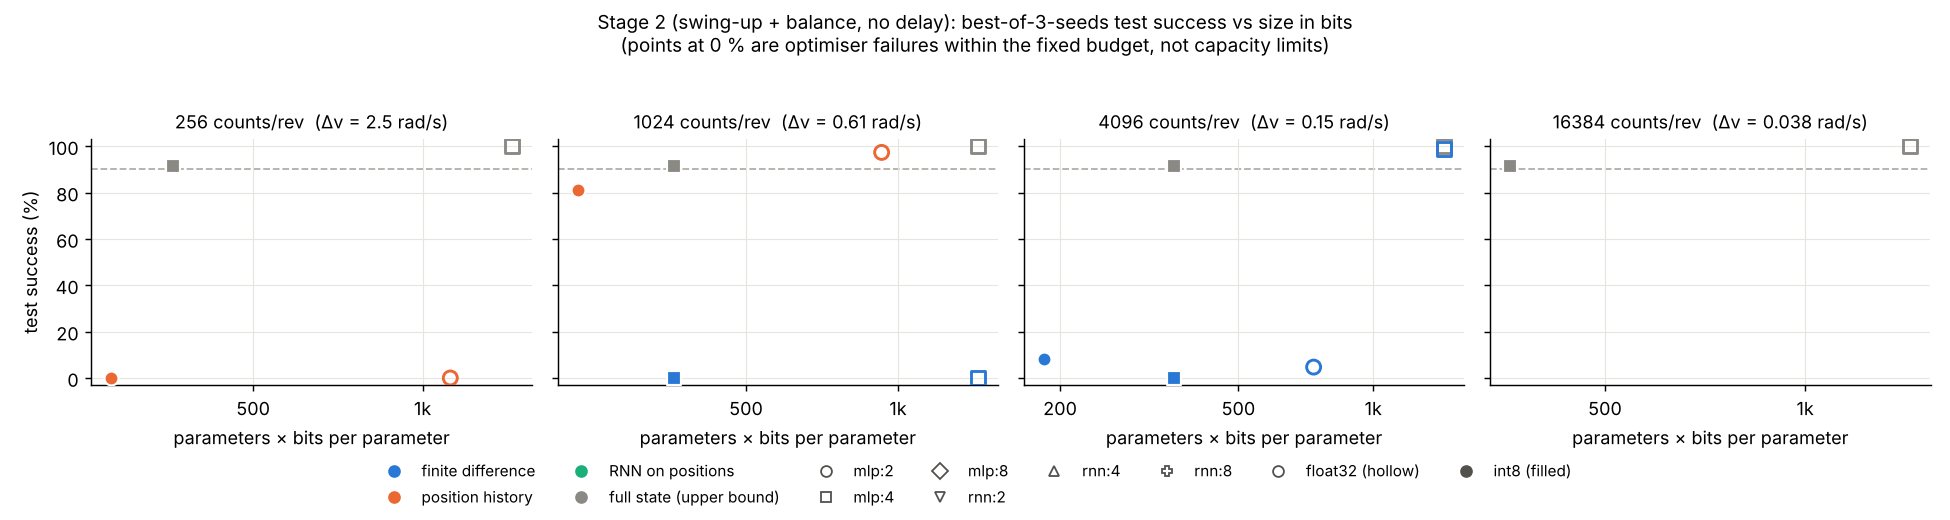
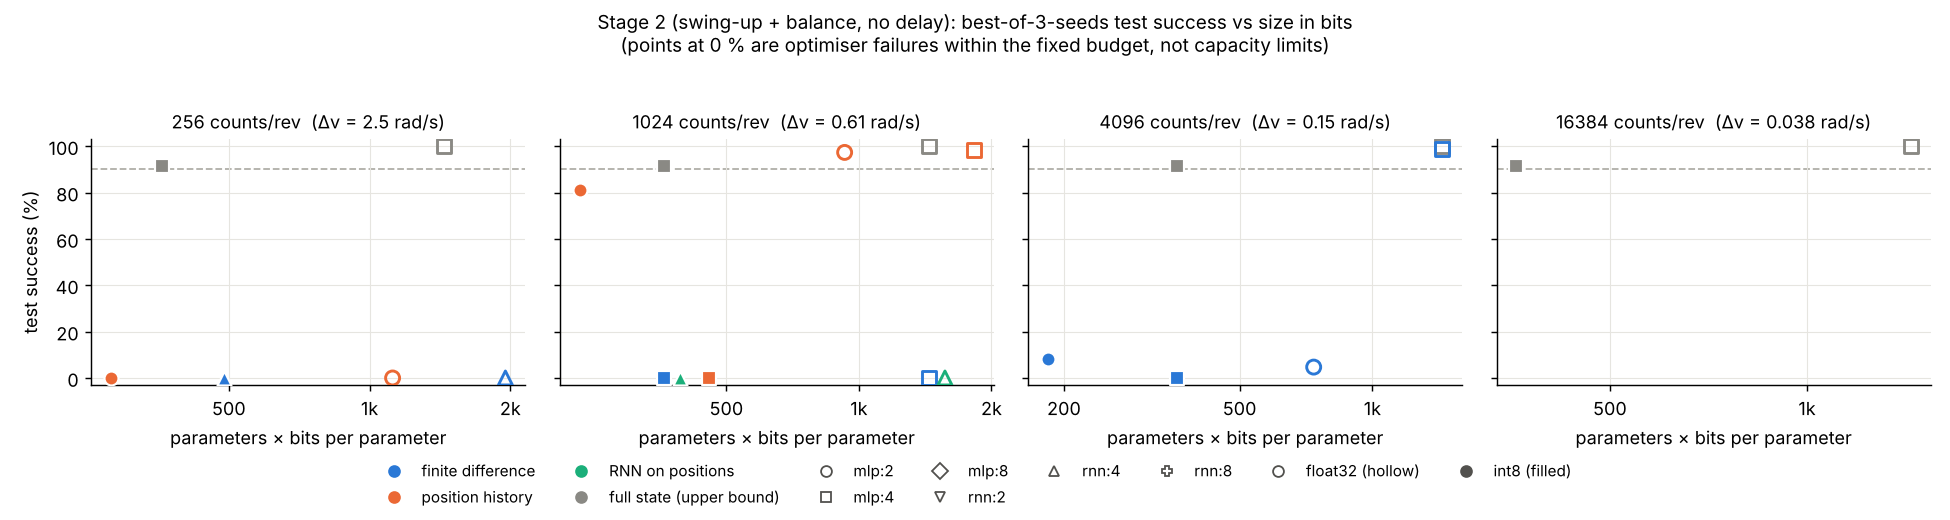
Stage 2: 11 of 14 cells transcribed (incl. fully realistic fd 4096 + delay + 8-bit force: 100 % with int8, Drake 16/16)
Claude-Session: https://claude.ai/code/session_014pKasSkbvpxxYxkzUrqKmM

diff --git a/results/encoder/summary.md b/results/encoder/summary.md
@@ -76,11 +76,16 @@ Cells: swing-up 20 s / 60 s (balance only), in %.
 | Cell | Params | Memory | Seeds solved | Test 20 s per seed | Best: 60 s / int8 / Drake | Closest start per seed (s) |
 |---|---|---|---|---|---|---|
 | fd_c1024_x0.1mm_mlp4 | 45 | 3 | 0/3 | 0.0 · 0.0 · 0.0 | 0.0 / 0.0 / – | 1.2 · 1.15 · 1.1 |
+| fd_c256_x0.1mm_rnn4 | 61 | 7 | 0/3 | 0.0 · 0.0 · 0.0 | 0.0 / 0.0 / – | 1.35 · 1.2 · 1.0 |
+| fd_c4096_x0.1mm_d1_f8_mlp4 | 45 | 3 | 2/3 | 90.2 · 100.0 · 0.0 | 100.0 / 100.0 / 16/16 | 0.0 · 0.0 · 1.05 |
 | fd_c4096_x0.1mm_mlp2 | 23 | 3 | 0/3 | 4.7 · 0.0 · 0.0 | 4.7 / 8.2 / 0/16 | 0.55 · 0.55 · 0.45 |
 | fd_c4096_x0.1mm_mlp4 | 45 | 3 | 2/3 | 71.9 · 98.8 · 98.8 | 98.8 / 0.0 / 16/16 | 0.0 · 0.0 · 0.0 |
+| full_d1_f8_mlp4 | 45 | 0 | 3/3 | 99.2 · 100.0 · 100.0 | 100.0 / 0.0 / 16/16 | 0.0 · 0.0 · 0.0 |
 | full_mlp4 | 45 | 0 | 2/3 | 100.0 · 1.2 · 98.4 | 100.0 / 91.4 / 16/16 | 0.0 · 0.25 · 0.0 |
 | hist3_c1024_x0.1mm_mlp2 | 29 | 6 | 2/3 | 97.3 · 96.5 · 0.0 | 97.3 / 80.9 / 16/16 | 0.0 · 0.0 · 0.55 |
+| hist3_c1024_x0.1mm_mlp4 | 57 | 6 | 2/3 | 0.0 · 98.4 · 98.0 | 98.4 / 0.0 / 16/16 | 0.5 · 0.0 · 0.0 |
 | hist4_c256_x0.1mm_mlp2 | 35 | 9 | 0/3 | 0.0 · 0.0 · 0.0 | 0.0 / 0.0 / – | 0.55 · 1.0 · 1.05 |
+| pos_c1024_x0.1mm_rnn4 | 49 | 4 | 0/3 | 0.0 · 0.0 · 0.0 | 0.0 / 0.0 / – | 1.3 · 1.35 · 1.4 |
 
 **Stage 2: swing-up + balance (real task)**, per seed
 
@@ -89,18 +94,33 @@ Cells: swing-up 20 s / 60 s (balance only), in %.
 | fd_c1024_x0.1mm_mlp4_s0 | 45 | 3 | 1.2 | 4.0 | 0.0 | 0.0 | 0.0 | 0.0 | – |
 | fd_c1024_x0.1mm_mlp4_s1 | 45 | 3 | 1.15 | 4.0 | 0.0 | 0.0 | 0.0 | 0.0 | – |
 | fd_c1024_x0.1mm_mlp4_s2 | 45 | 3 | 1.1 | 4.001 | 0.0 | 0.0 | 0.0 | 0.0 | – |
+| fd_c256_x0.1mm_rnn4_s0 | 61 | 7 | 1.35 | 4.001 | 0.0 | 0.0 | 0.0 | 0.0 | – |
+| fd_c256_x0.1mm_rnn4_s1 | 61 | 7 | 1.2 | 4.001 | 0.0 | 0.0 | 0.0 | 0.0 | – |
+| fd_c256_x0.1mm_rnn4_s2 | 61 | 7 | 1.0 | 4.0 | 0.0 | 0.0 | 0.0 | 0.0 | – |
+| fd_c4096_x0.1mm_d1_f8_mlp4_s0 | 45 | 3 | 0.0 | 4.0 | 90.2 | 90.2 | 0.0 | 0.0 | 14/16 |
+| fd_c4096_x0.1mm_d1_f8_mlp4_s1 | 45 | 3 | 0.0 | 3.647 | 100.0 | 100.0 | 100.0 | 0.0 | 16/16 |
+| fd_c4096_x0.1mm_d1_f8_mlp4_s2 | 45 | 3 | 1.05 | 4.001 | 0.0 | 0.0 | 0.0 | 0.0 | – |
 | fd_c4096_x0.1mm_mlp2_s0 | 23 | 3 | 0.55 | 4.0 | 4.7 | 4.7 | 8.2 | 0.0 | 0/16 |
 | fd_c4096_x0.1mm_mlp2_s1 | 23 | 3 | 0.55 | 4.0 | 0.0 | 0.0 | 0.0 | 0.0 | – |
 | fd_c4096_x0.1mm_mlp2_s2 | 23 | 3 | 0.45 | 4.0 | 0.0 | 0.0 | 0.0 | 0.0 | – |
 | fd_c4096_x0.1mm_mlp4_s0 | 45 | 3 | 0.0 | 4.0 | 71.9 | 71.9 | 62.5 | 0.0 | 12/16 |
 | fd_c4096_x0.1mm_mlp4_s1 | 45 | 3 | 0.0 | 4.001 | 98.8 | 98.8 | 0.0 | 0.4 | 16/16 |
 | fd_c4096_x0.1mm_mlp4_s2 | 45 | 3 | 0.0 | 3.616 | 98.8 | 98.8 | 0.0 | 0.0 | 16/16 |
+| full_d1_f8_mlp4_s0 | 45 | 0 | 0.0 | 1.594 | 99.2 | 99.2 | 0.0 | 0.0 | 16/16 |
+| full_d1_f8_mlp4_s1 | 45 | 0 | 0.0 | 2.244 | 100.0 | 100.0 | 0.0 | 0.0 | 16/16 |
+| full_d1_f8_mlp4_s2 | 45 | 0 | 0.0 | 3.717 | 100.0 | 100.0 | 91.0 | 27.7 | 16/16 |
 | full_mlp4_s0 | 45 | 0 | 0.0 | 1.077 | 100.0 | 100.0 | 91.4 | 0.0 | 16/16 |
 | full_mlp4_s1 | 45 | 0 | 0.25 | 4.0 | 1.2 | 1.2 | 1.6 | 0.0 | 0/16 |
 | full_mlp4_s2 | 45 | 0 | 0.0 | 3.004 | 98.4 | 98.4 | 2.0 | 0.0 | 16/16 |
 | hist3_c1024_x0.1mm_mlp2_s0 | 29 | 6 | 0.0 | 2.682 | 97.3 | 97.3 | 80.9 | 0.4 | 16/16 |
 | hist3_c1024_x0.1mm_mlp2_s1 | 29 | 6 | 0.0 | 1.535 | 96.5 | 96.5 | 83.6 | 8.2 | 16/16 |
 | hist3_c1024_x0.1mm_mlp2_s2 | 29 | 6 | 0.55 | 4.0 | 0.0 | 0.0 | 0.0 | 0.0 | – |
+| hist3_c1024_x0.1mm_mlp4_s0 | 57 | 6 | 0.5 | 4.0 | 0.0 | 0.0 | 0.0 | 0.0 | – |
+| hist3_c1024_x0.1mm_mlp4_s1 | 57 | 6 | 0.0 | 4.0 | 98.4 | 98.4 | 0.0 | 15.2 | 16/16 |
+| hist3_c1024_x0.1mm_mlp4_s2 | 57 | 6 | 0.0 | 2.045 | 98.0 | 94.5 | 95.3 | 0.0 | 16/16 |
 | hist4_c256_x0.1mm_mlp2_s0 | 35 | 9 | 0.55 | 4.0 | 0.0 | 0.0 | 0.0 | 0.0 | – |
 | hist4_c256_x0.1mm_mlp2_s1 | 35 | 9 | 1.0 | 4.0 | 0.0 | 0.0 | 0.0 | 0.0 | – |
 | hist4_c256_x0.1mm_mlp2_s2 | 35 | 9 | 1.05 | 4.0 | 0.0 | 0.0 | 0.0 | 0.0 | – |
+| pos_c1024_x0.1mm_rnn4_s0 | 49 | 4 | 1.3 | 4.0 | 0.0 | 0.0 | 0.0 | 0.0 | – |
+| pos_c1024_x0.1mm_rnn4_s1 | 49 | 4 | 1.35 | 4.0 | 0.0 | 0.0 | 0.0 | 0.0 | – |
+| pos_c1024_x0.1mm_rnn4_s2 | 49 | 4 | 1.4 | 4.001 | 0.0 | 0.0 | 0.0 | 0.0 | – |
